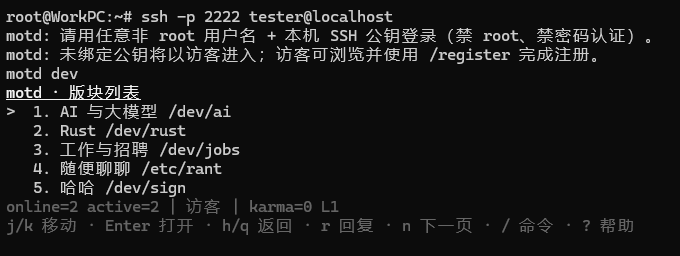
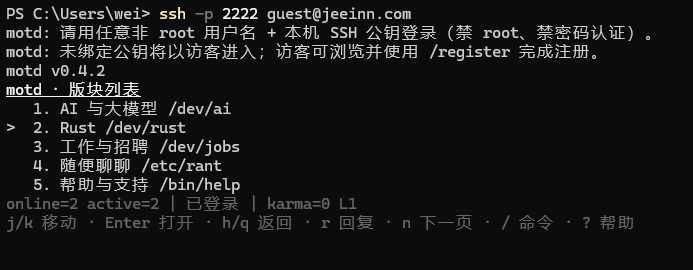
docs: README.md

Changed region(s): [[0.0, 0.0312, 0.9574, 0.9062], [0.8338, 0.7812, 0.9265, 0.9062], [0.7103, 0.7812, 0.8029, 0.9062]]

diff --git a/README.md b/README.md
@@ -11,11 +11,25 @@ SSH 优先的终端论坛。用户 `ssh` 上来，用键盘和斜杠命令浏览
 - Go module：`github.com/jeeinn/motd`
 - 许可证：MIT
 
+## 在线体验
+
+服务器已部署，直接用 SSH 连入试用（无需注册）：
+
+```bash
+ssh -p 2222 guest@jeeinn.com
+```
+
+用户名任意非 root 即可；未绑定公钥时以**访客**进入（可浏览、可 `/register`），用 `/login github` 登录后可发帖。
+
 ## 预览
 
-SSH 连入后的版块列表（五版块种子、键位提示、状态栏）：
+**版块列表首屏**——连入后按 `j/k` 移动、`Enter` 打开、`h/g` 返回：
 
-![motd 终端版块列表](docs/images/terminal-node-list.png)
+![SSH 连入后的版块列表](docs/images/terminal-node-list.png)
+
+**GitHub Device Flow 登录与发帖**——`/login github` 发起授权，浏览器打开 `github.com/login/device` 输入验证码即可自动创建账号并绑定当前公钥，随后用 `/new` 发帖：
+
+![GitHub Device Flow 登录与发帖](docs/images/login-github.png)
 
 更多截图见 [`docs/images/`](docs/images/)。
 

diff --git a/docs/images/README.md b/docs/images/README.md
@@ -17,6 +17,9 @@
 
 当前截图：
 
-| 文件 | 内容 |
-| --- | --- |
-| `terminal-node-list.png` | SSH 连入后的版块列表首屏 |
+| 文件 | 内容 | README 引用 |
+| --- | --- | --- |
+| `terminal-node-list.png` | SSH 连入后的版块列表首屏（含 `guest@jeeinn.com` 在线体验命令） | 预览 |
+| `login-github.png` | GitHub Device Flow 登录到 `/new` 发帖的完整流程 | 预览 |
+
+> 尺寸说明：两张截图来自不同终端窗口，`login-github.png` 为宽屏、内容较长；新增截图时尽量保持与同组图一致的终端宽度（建议 80 列）。
